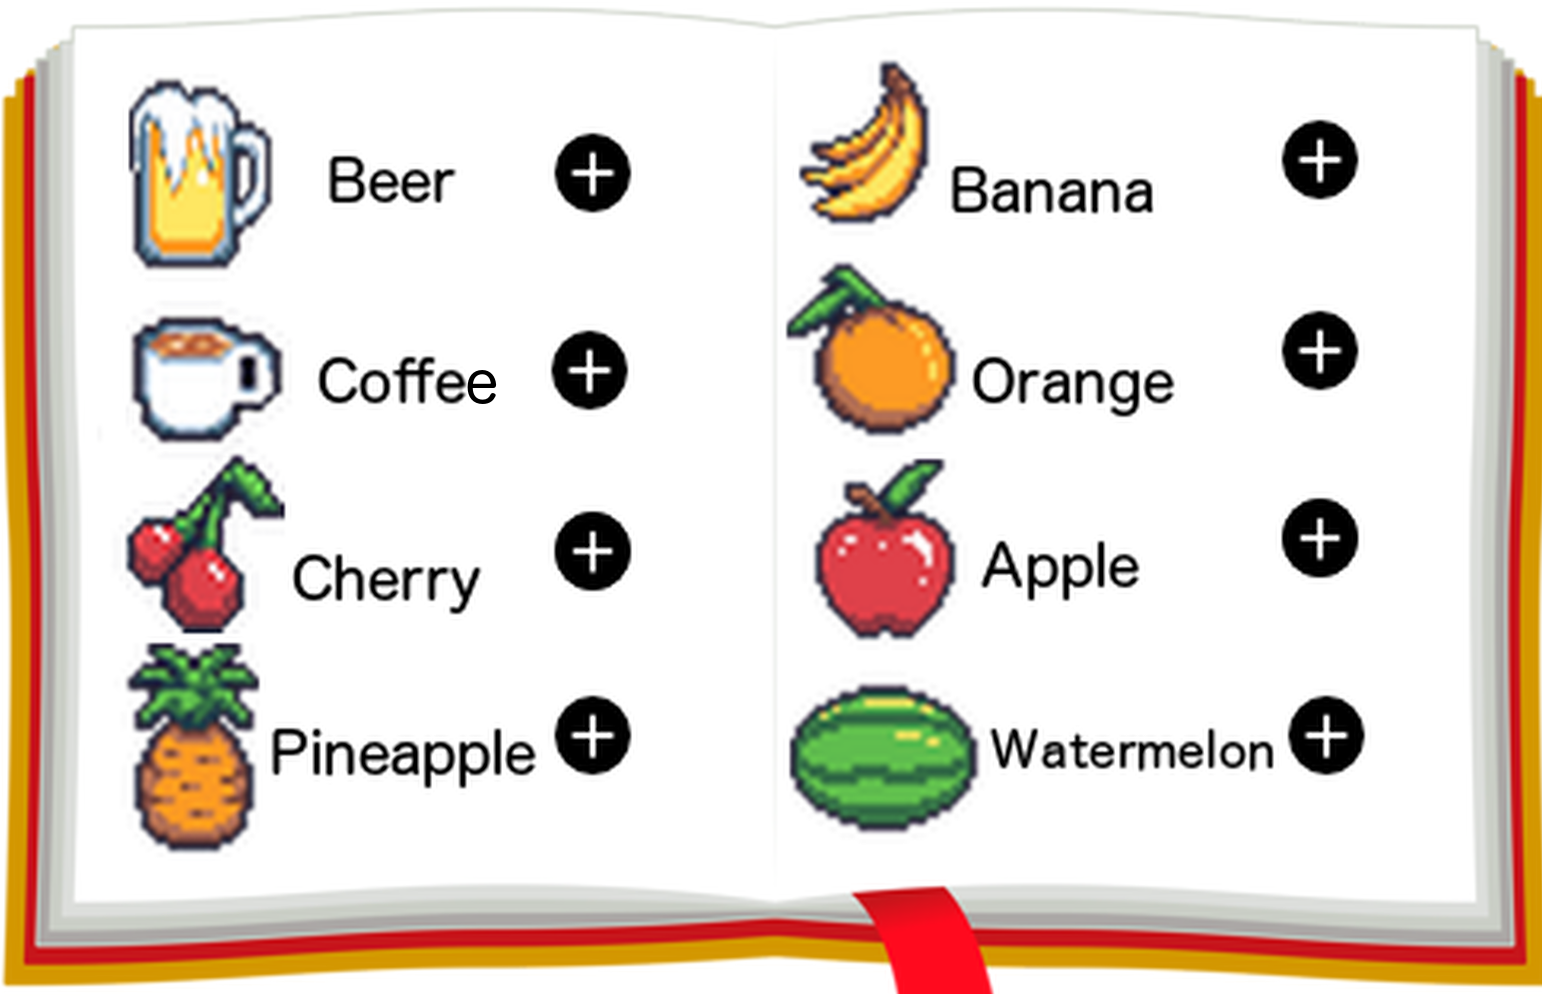
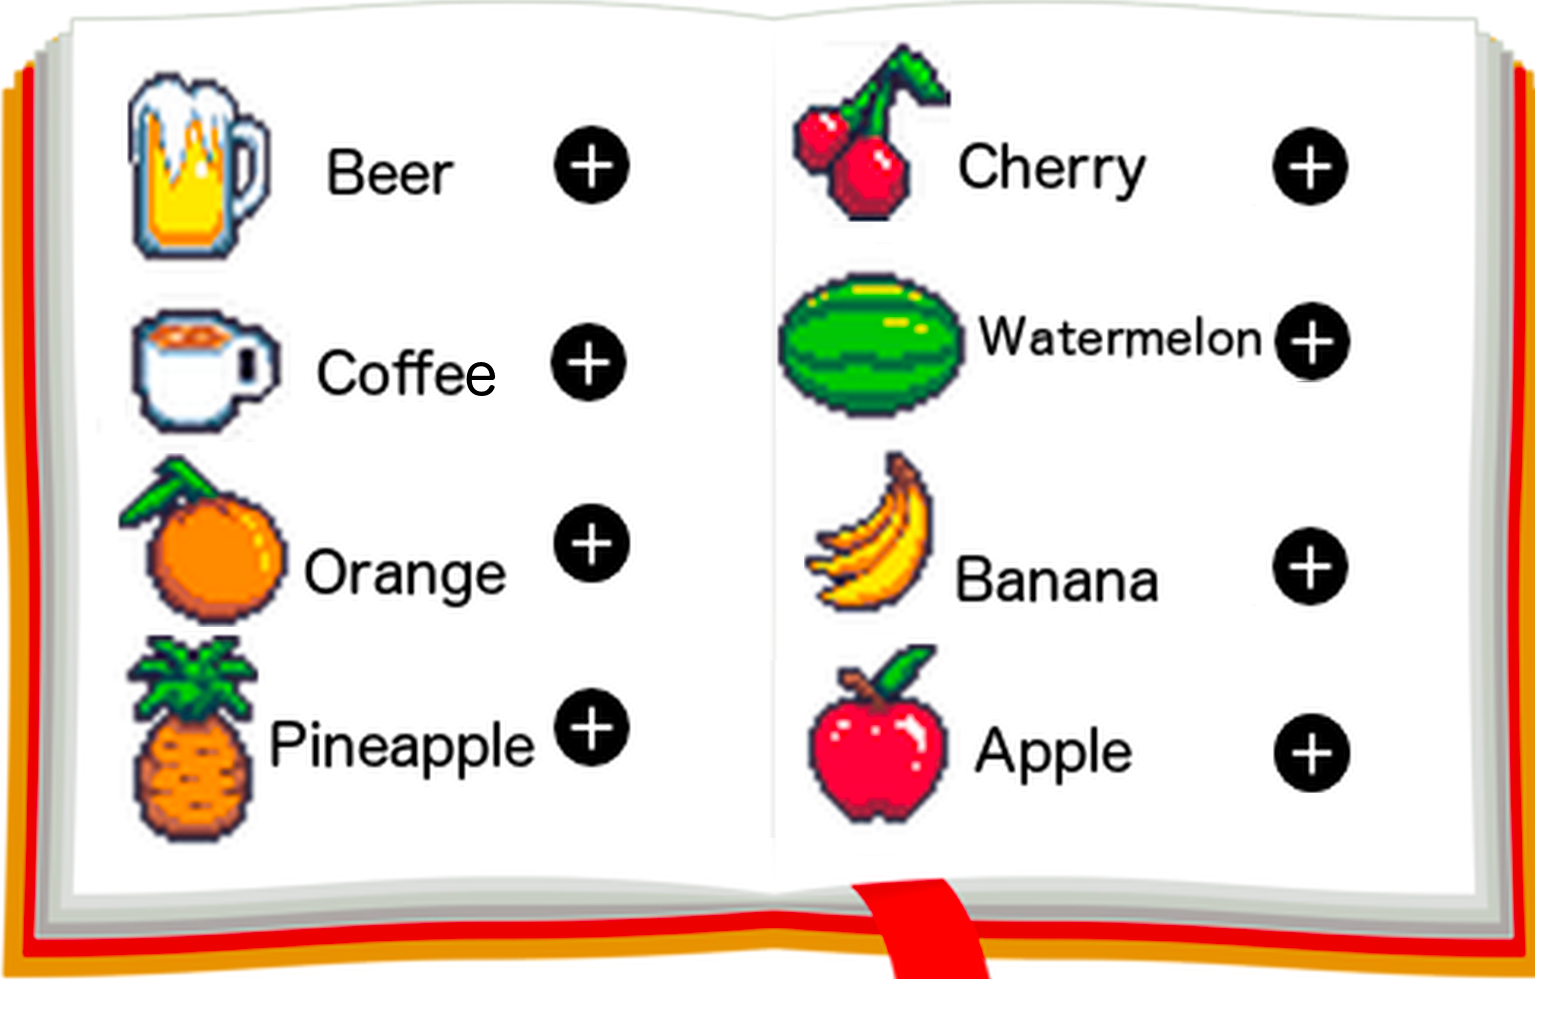
sprite of the shop modified and adding 8 button for increment stock of ingredient

diff --git a/src/tools/objects_handling2.c b/src/tools/objects_handling2.c
@@ -7,6 +7,22 @@
 
 #include "main.h"
 
+void init_nbbuttom2(sys_t *sys)
+{
+	sys->nb[4] = add_new_buttom("assets/img/food/cherry.png",
+	(sfVector2f){31, 480}, (sfVector2f){76, 76},
+	(sfIntRect){0, 0, 80, 80}, adding_recipe);
+	sys->nb[5] = add_new_buttom("assets/img/food/watermelon.png",
+	(sfVector2f){31, 600}, (sfVector2f){76, 76},
+	(sfIntRect){0, 0, 80, 80}, adding_recipe);
+	sys->nb[6] = add_new_buttom("assets/img/food/banana.png",
+	(sfVector2f){31, 720}, (sfVector2f){76, 76},
+	(sfIntRect){0, 0, 80, 80}, adding_recipe);
+	sys->nb[7] = add_new_buttom("assets/img/food/apple.png",
+	(sfVector2f){31, 840}, (sfVector2f){76, 76},
+	(sfIntRect){0, 0, 80, 80}, adding_recipe);
+	sys->nb[8] = NULL;
+}
 void init_nbbuttom(sys_t *sys)
 {
 //button cook
@@ -22,17 +38,44 @@ void init_nbbuttom(sys_t *sys)
 	sys->nb[3] = add_new_buttom("assets/img/food/pineapple.png",
 	(sfVector2f){31, 360}, (sfVector2f){76, 76},
 	(sfIntRect){0, 0, 80, 80}, adding_recipe);
-	sys->nb[4] = add_new_buttom("assets/img/food/cherry.png",
-	(sfVector2f){31, 480}, (sfVector2f){76, 76},
-	(sfIntRect){0, 0, 80, 80},adding_recipe);
-	sys->nb[5] = add_new_buttom("assets/img/food/watermelon.png",
-	(sfVector2f){31, 600}, (sfVector2f){76, 76},
-	(sfIntRect){0, 0, 80, 80}, adding_recipe);
-	sys->nb[6] = add_new_buttom("assets/img/food/banana.png",
-	(sfVector2f){31, 720}, (sfVector2f){76, 76},
-	(sfIntRect){0, 0, 80, 80}, adding_recipe);
-	sys->nb[7] = add_new_buttom("assets/img/food/apple.png",
-	(sfVector2f){31, 840}, (sfVector2f){76, 76},
-	(sfIntRect){0, 0, 80, 80},adding_recipe);
-	sys->nb[8] = NULL;
+	init_nbbuttom2(sys);
+}
+
+bshop_t *newbutton_shop(sfVector2f pos, sfVector2f size, sfIntRect square,
+void (*func)())
+{
+	bshop_t *new = malloc(sizeof(sys_t));
+	if (new == NULL)
+		return (NULL);
+	new->square = square;
+	new->pos = pos;
+	new->rect = sfRectangleShape_create();
+	sfRectangleShape_setPosition(new->rect, pos);
+	sfRectangleShape_setSize(new->rect, size);
+	sfRectangleShape_setFillColor(new->rect, sfRed);
+	new->callback = func;
+	return (new);
+}
+void init_button_shop(sys_t *sys)
+{
+	int i = 0;
+
+	for (i = 0; i < 10; i++)
+		sys->bshop[i] = NULL;
+	sys->bshop[0] = newbutton_shop((sfVector2f){754, 128},
+	(sfVector2f){76, 76}, (sfIntRect){0, 0, 80, 80}, increment_stock);
+	sys->bshop[1] = newbutton_shop((sfVector2f){753, 326},
+	(sfVector2f){76, 76}, (sfIntRect){0, 0, 80, 80}, increment_stock);
+	sys->bshop[2] = newbutton_shop((sfVector2f){755, 505},
+	(sfVector2f){76, 76}, (sfIntRect){0, 0, 80, 80}, increment_stock);
+	sys->bshop[3] = newbutton_shop((sfVector2f){755, 691},
+	(sfVector2f){76, 76}, (sfIntRect){0, 0, 80, 80}, increment_stock);
+	sys->bshop[4] = newbutton_shop((sfVector2f){1480, 129},
+	(sfVector2f){76, 76}, (sfIntRect){0, 0, 80, 80}, increment_stock);
+	sys->bshop[5] = newbutton_shop((sfVector2f){1476, 305},
+	(sfVector2f){76, 76}, (sfIntRect){0, 0, 80, 80}, increment_stock);
+	sys->bshop[6] = newbutton_shop((sfVector2f){1480, 528},
+	(sfVector2f){76, 76}, (sfIntRect){0, 0, 80, 80}, increment_stock);
+	sys->bshop[7] = newbutton_shop((sfVector2f){1478, 714},
+	(sfVector2f){76, 76}, (sfIntRect){0, 0, 80, 80}, increment_stock);
 }

diff --git a/src/action_bar/button_shop.c b/src/action_bar/button_shop.c
@@ -1,0 +1,42 @@
+/*
+** EPITECH PROJECT, 2017
+** CSFML MyRunner
+** File description:
+** Main file
+*/
+
+#include "main.h"
+
+
+int button_shop_is_clicked(sys_t *sys, int i, sfVector2f clickPosition)
+{
+	return (clickPosition.x <
+	sfRectangleShape_getPosition(sys->bshop[i]->rect).x +
+	sfRectangleShape_getSize(sys->bshop[i]->rect).x && clickPosition.x >
+	sfRectangleShape_getPosition(sys->bshop[i]->rect).x && clickPosition.y
+	< sfRectangleShape_getPosition(sys->bshop[i]->rect).y +
+	sfRectangleShape_getSize(sys->bshop[i]->rect).y && clickPosition.y >
+	sfRectangleShape_getPosition(sys->bshop[i]->rect).y);
+}
+
+void increment_stock(sys_t *sys, int i)
+{
+	printf("vous avez cliquer sur %d et et le stock est egal à %s\n", i, sys->inventory[i].stock++);
+	// if (sys->monney >= sys->inventory[i]->price)
+	// 	sys->inventory[i].stock++;
+	sys->win = sys->win;
+}
+
+void verif_shop(sys_t *sys)
+{
+	for (int i = 0; i != 8; i++) {
+		sfRenderWindow_drawRectangleShape(sys->win, sys->bshop[i]->rect, NULL);
+	}
+	if (sys->event.type == sfEvtMouseButtonPressed && my_clock(sys) == 1) {
+		for (int i = 0; i != 8; i++) {
+			if (button_shop_is_clicked(sys, i,
+			(sfVector2f){sys->event.mouseButton.x, sys->event.mouseButton.y}) == 1)
+				sys->bshop[i]->callback(sys, i);
+		}
+	}
+}

diff --git a/include/main.h b/include/main.h
@@ -73,7 +73,16 @@
 	typedef struct inventory_s {
 		int stock;
 		char *ingredient;
+		int price;
 	} inventory_t;
+
+	typedef struct bshop_s {
+		sfRectangleShape *rect;
+		sfIntRect square;
+		char *name;
+		void(*callback)();
+		sfVector2f pos;
+	} bshop_t;
 
 	typedef struct sys_s {
 		sfRenderWindow* win;
@@ -92,9 +101,13 @@
 		wsup_t *wsup[100];
 		button_t *button[100];
 		newbar_t *nb[100];
+		bshop_t *bshop[10];
 	} sys_t;
 
 	// PROTOTYPES
+	void verif_shop(sys_t *sys);
+	void increment_stock(sys_t *sys, int i);
+	void init_button_shop(sys_t *sys);
 	void error_message(sys_t *sys);
 	int my_clock(sys_t *sys);
 	void adding_recipe(sys_t *sys, int i);

diff --git a/src/tools/init.c b/src/tools/init.c
@@ -21,7 +21,14 @@ void init_inventory(sys_t *sys)
 	sys->inventory[5].ingredient = "watermelon";
 	sys->inventory[6].ingredient = "banana";
 	sys->inventory[7].ingredient = "apple";
-
+	sys->inventory[0].price = 5;
+	sys->inventory[1].price = 3;
+	sys->inventory[2].price = 1;
+	sys->inventory[3].price = 2;
+	sys->inventory[4].price = 1;
+	sys->inventory[5].price = 2;
+	sys->inventory[6].price = 1;
+	sys->inventory[7].price = 1;
 }
 
 void init_window(sys_t *sys)

diff --git a/src/action_bar/button_function.c b/src/action_bar/button_function.c
@@ -13,9 +13,8 @@ void verif_button(sys_t *sys)
 		disp_cook(sys);
 	// else if (sys->wsup[1]->key == 0) // 1 = pause
 	else if (sys->wsup[0]->key == 0) // 0 = market
-	{
 		disp_menu(sys);
-	} else if (sys->wsup[2]->key == 0)
+	else if (sys->wsup[2]->key == 0)
 		disp_recipe(sys);
 }
 

diff --git a/src/main.c b/src/main.c
@@ -47,6 +47,7 @@ void my_window(sys_t *sys)
 {
 	init_window(sys);
 	init_windowsup(sys);
+	init_button_shop(sys);
 	while (sfRenderWindow_isOpen(sys->win)) {
 		sfRenderWindow_clear(sys->win, sfBlack);
 		analyse_events(sys);

diff --git a/src/tools/display.c b/src/tools/display.c
@@ -26,6 +26,7 @@ int print_h(char const *filepath)
 void disp_menu(sys_t *sys)
 {
 	sfRenderWindow_drawSprite(sys->win, sys->wsup[0]->sprite, NULL);
+	verif_shop(sys);
 }
 
 void disp_recipe(sys_t *sys)
